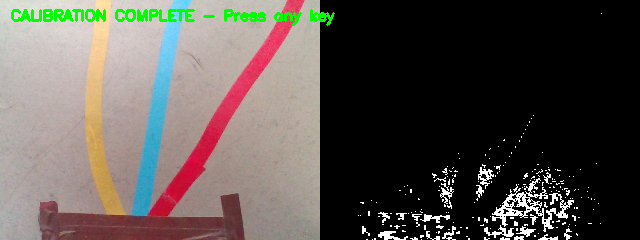
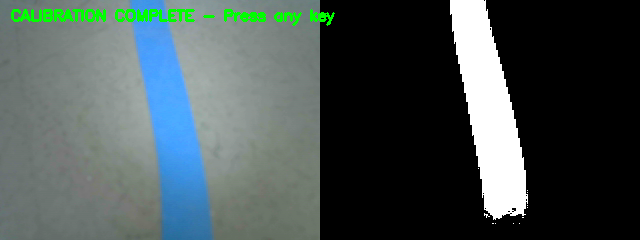
Color Calibration

diff --git a/camera_calibration.py b/camera_calibration.py
@@ -1,8 +1,10 @@
 import numpy as np
 import cv2
 from image_processing.new_params import NEW_BLUE, NEW_RED, NEW_YELLOW, NEW_BROWN
+from image_processing.opencv_inrange_camera_params import RED, BLUE, YELLOW, BROWN
 
-def calibrate_color_threshold(cap, preset_low, preset_high, num_samples=50, adjustment_range=10):
+
+def calibrate_color_threshold(cap, preset_low, preset_high, num_samples=10, adjustment_range=30):
     """
     Calibrates color thresholds to maximize line detection under current lighting.
     
@@ -295,16 +297,13 @@ def calibrate_all_colors(cap):
     Calibrates all color thresholds sequentially.
     """
     # Presets
-    RED_PRESET = ((0, 64, 0), (20, 255, 255))
-    YELLOW_PRESET = ((20, 100, 100), (30, 255, 255))
-    BLUE_PRESET = ((100, 100, 100), (130, 255, 255))
-    BROWN_PRESET = ((10, 50, 50), (20, 150, 150))
+    
     
     colors = {
-        'RED': RED_PRESET,
-        'YELLOW': YELLOW_PRESET,
-        'BLUE': BLUE_PRESET,
-        'BROWN': BROWN_PRESET
+        'RED': RED,
+        'YELLOW': YELLOW,
+        'BLUE': BLUE,
+        'BROWN': BROWN
     }
     
     calibrated = {}
